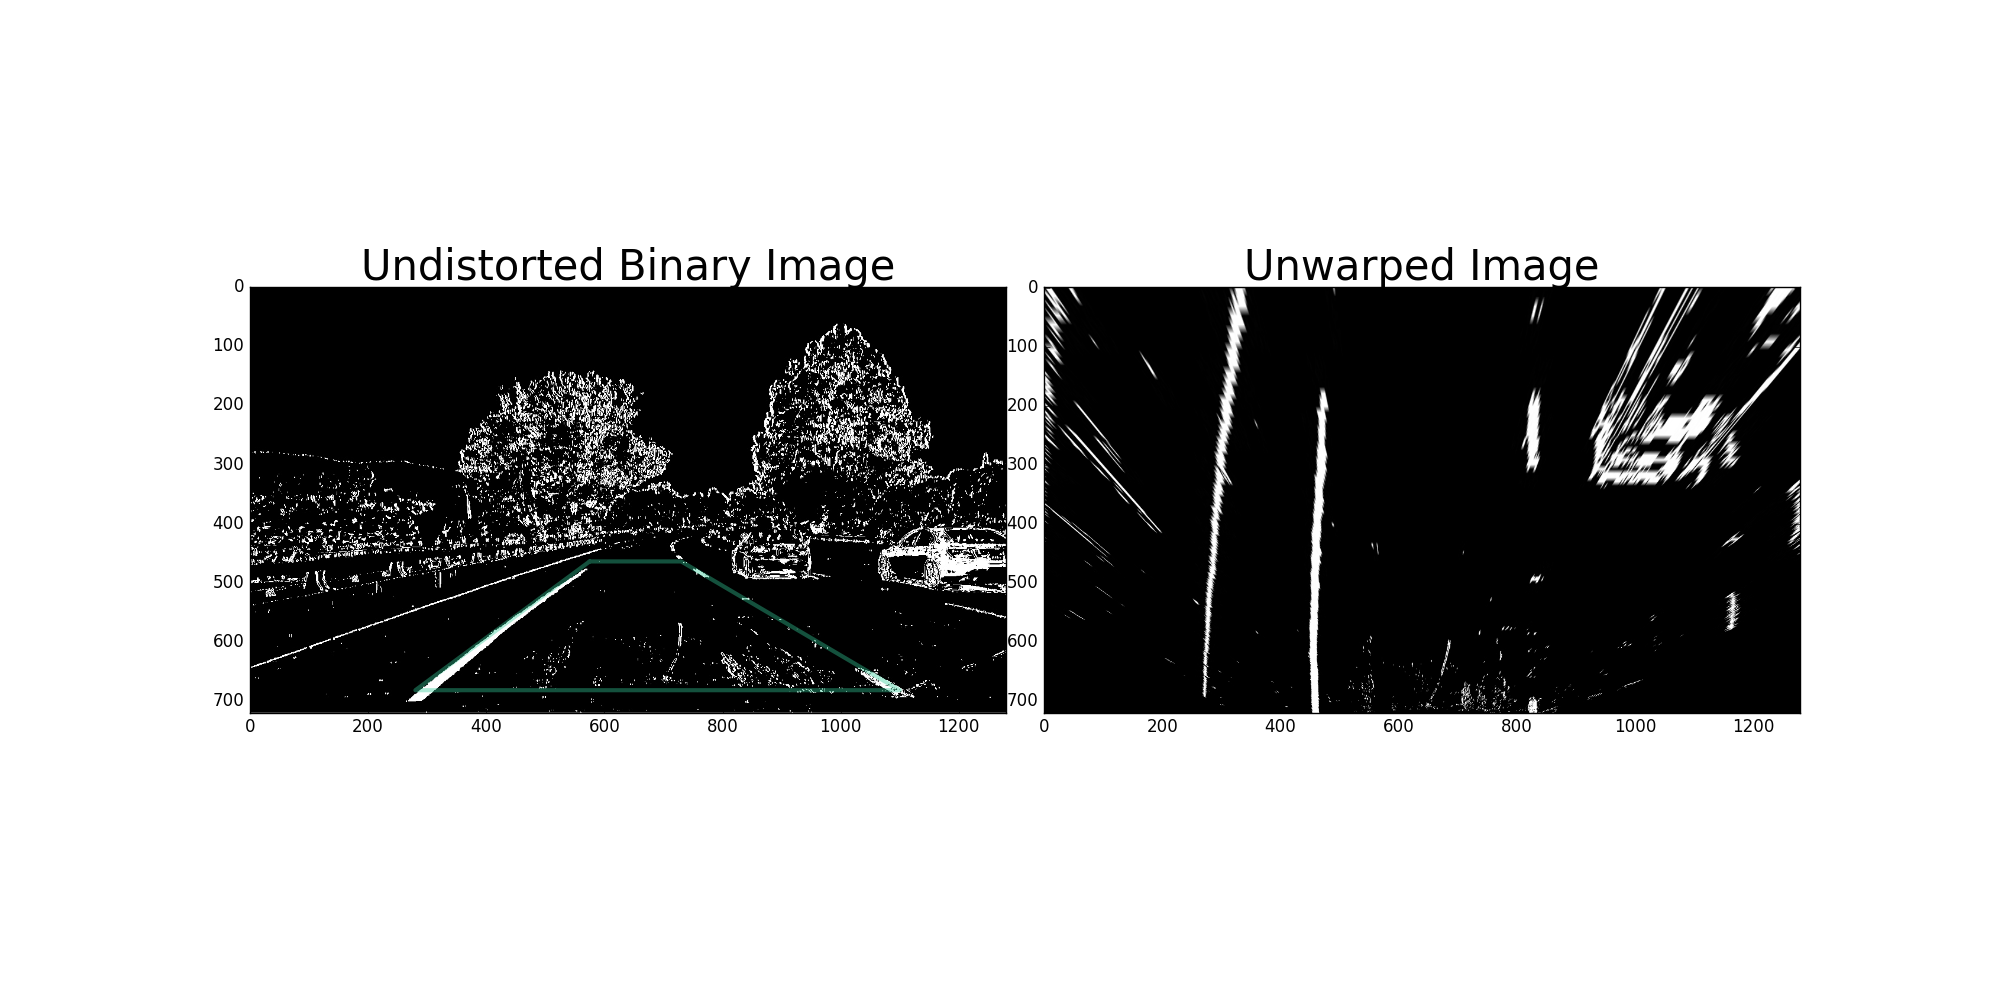
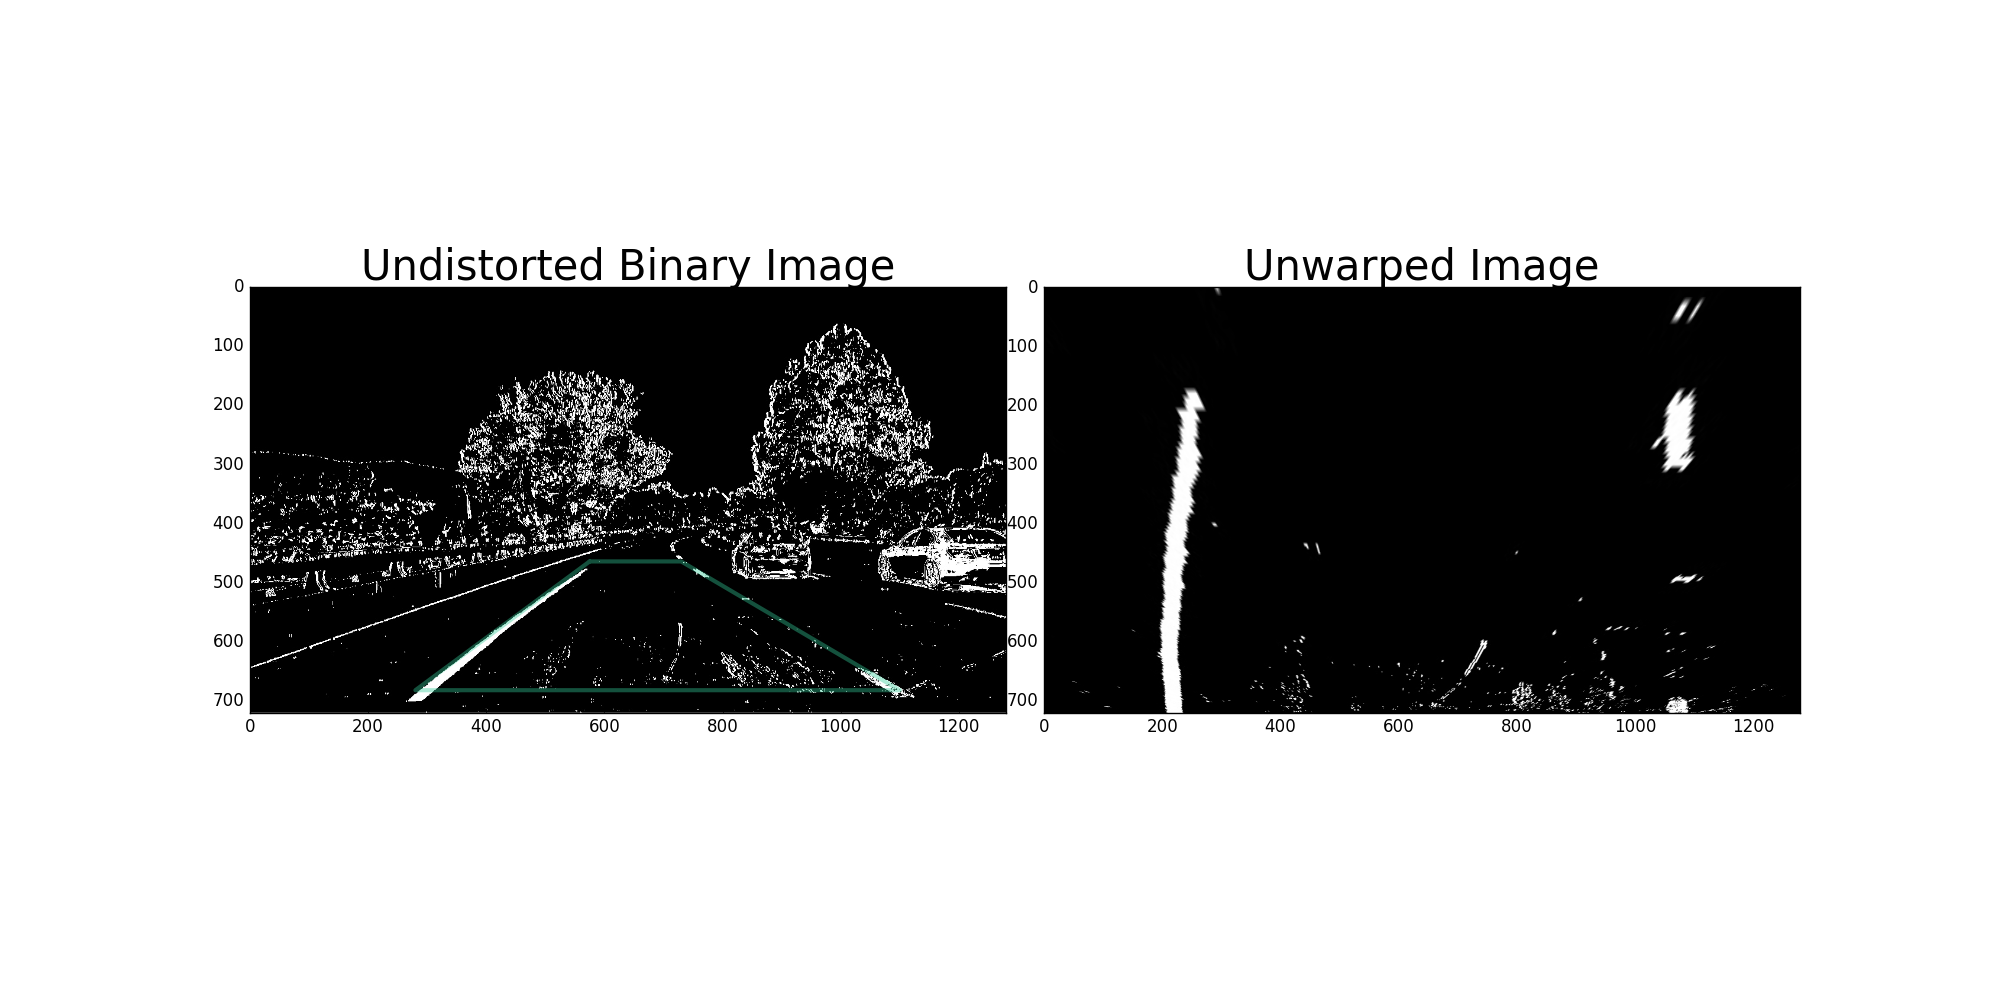
commit

diff --git a/detect_lane.py b/detect_lane.py
@@ -1,0 +1,104 @@
+import numpy as np
+import cv2
+import matplotlib.pyplot as plt
+
+
+binary_warped = cv2.imread('./output_images/unwarped_binary_test1.jpg')
+binary_warped = cv2.cvtColor(binary_warped, cv2.COLOR_BGR2GRAY)
+
+# take a histogram along all the columns in the lower half of the image
+histogram = np.sum(binary_warped[binary_warped.shape[0]//2:,:], axis=0)
+plt.plot(histogram)
+plt.show()
+
+# Create an output image to draw on and  visualize the result, thus stacked into rgb channels
+out_img = np.dstack((binary_warped, binary_warped, binary_warped))
+# Find the peak of the left and right halves of the histogram
+# These will be the starting point for the left and right lines
+
+midpoint = histogram.shape[0]//2
+leftx_base = np.argmax(histogram[:midpoint])
+rightx_base = np.argmax(histogram[midpoint:]) + midpoint
+
+# Choose the number of sliding windows
+nwindows = 9
+# Set height of windows
+window_height = binary_warped.shape[0]//nwindows
+
+# Identify the x and y positions of all nonzero pixels in the image
+nonzero = binary_warped.nonzero()
+nonzeroy = np.array(nonzero[0])
+nonzerox = np.array(nonzero[1])
+
+# Current positions to be updated for each window
+leftx_current = leftx_base
+rightx_current = rightx_base
+
+# Set the width of the windows +/- margin
+margin = 100
+# Set minimum number of pixels found to recenter window
+minpix = 50
+# Create empty lists to receive left and right lane pixel indices
+left_lane_inds = []
+right_lane_inds = []
+
+# Step through the windows one by one
+for window in range(nwindows):
+	# Identify window boundaries in x and y (and right and left)
+	win_y_low = binary_warped.shape[0] - (window+1)*window_height
+	win_y_high = binary_warped.shape[0] - window*window_height
+	win_xleft_low = leftx_current - margin
+	win_xleft_high = leftx_current + margin
+	win_xright_low = rightx_current - margin
+	win_xright_high = rightx_current + margin
+
+	# Draw the windows on the visualization image
+	cv2.rectangle(out_img,(win_xleft_low,win_y_low),(win_xleft_high,win_y_high),(0,255,0), 2)
+	cv2.rectangle(out_img,(win_xright_low,win_y_low),(win_xright_high,win_y_high),(0,255,0), 2)
+
+	# Identify the nonzero pixels in x and y within the window
+	good_left_inds = ((nonzeroy >= win_y_low) & (nonzeroy < win_y_high) & (nonzerox >= win_xleft_low) & (nonzerox < win_xleft_high)).nonzero()[0]
+	good_right_inds = ((nonzeroy >= win_y_low) & (nonzeroy < win_y_high) & (nonzerox >= win_xright_low) & (nonzerox < win_xright_high)).nonzero()[0]
+
+	# Append these indices to the lists
+	left_lane_inds.append(good_left_inds)
+	right_lane_inds.append(good_right_inds)
+
+	# If you found > minpix pixels, recenter next window on their mean position
+	if len(good_left_inds) > minpix:
+		leftx_current = np.int(np.mean(nonzerox[good_left_inds]))
+
+	if len(good_right_inds) > minpix: 
+		rightx_current = np.int(np.mean(nonzerox[good_right_inds]))
+
+# Concatenate the arrays of indices
+left_lane_inds = np.concatenate(left_lane_inds)
+right_lane_inds = np.concatenate(right_lane_inds)
+
+# Extract left and right line pixel positions
+leftx = nonzerox[left_lane_inds]
+lefty = nonzeroy[left_lane_inds] 
+rightx = nonzerox[right_lane_inds]
+righty = nonzeroy[right_lane_inds] 
+
+# Fit a second order polynomial to each
+left_fit = np.polyfit(lefty, leftx, 2)
+right_fit = np.polyfit(righty, rightx, 2)
+
+# For Visualization
+# Generate x and y values for plotting
+ploty = np.linspace(0, binary_warped.shape[0]-1, binary_warped.shape[0] )
+left_fitx = left_fit[0]*ploty**2 + left_fit[1]*ploty + left_fit[2]
+right_fitx = right_fit[0]*ploty**2 + right_fit[1]*ploty + right_fit[2]
+
+out_img[nonzeroy[left_lane_inds], nonzerox[left_lane_inds]] = [255, 0, 0]
+out_img[nonzeroy[right_lane_inds], nonzerox[right_lane_inds]] = [0, 0, 255]
+plt.imshow(out_img)
+plt.plot(left_fitx, ploty, color='yellow')
+plt.plot(right_fitx, ploty, color='yellow')
+plt.xlim(0, 1280)
+plt.ylim(720, 0)
+plt.show()
+
+# save result using cv2
+cv2.imwrite("output_images/detect_lanes_test1.jpg", out_img)

diff --git a/perspective_transform2.py b/perspective_transform2.py
@@ -18,18 +18,23 @@ def unwarp(img, src, dst):
 # load undistorted binary image
 exampleImg_undistort  = cv2.imread('./output_images/combined_binary_test1.jpg')
 
-h,w = exampleImg_undistort.shape[:2]
+#h,w = exampleImg_undistort.shape[:2]
+
+img_size = exampleImg_undistort.shape[:2]
+w = img_size[0]
+h = img_size[1]
 
 # define source and destination points for transform
-src = np.float32([(575,464),
-                  (730,464), 
-                  (280,682), 
-                  (1100,682)])
-
-dst = np.float32([(200,0),
-                  (w-200,0),
-                  (200,h),
-                  (w-200,h)])
+src = np.float32(
+    [[(img_size[0] / 2) - 55, img_size[1] / 2 + 100],
+    [((img_size[0] / 6) - 10), img_size[1]],
+    [(img_size[0] * 5 / 6) + 60, img_size[1]],
+    [(img_size[0] / 2 + 55), img_size[1] / 2 + 100]])
+dst = np.float32(
+    [[(img_size[0] / 4), 0],
+    [(img_size[0] / 4), img_size[1]],
+    [(img_size[0] * 3 / 4), img_size[1]],
+    [(img_size[0] * 3 / 4), 0]])
 
 exampleImg_unwarp, M, Minv = unwarp(exampleImg_undistort, src, dst)
 
@@ -48,7 +53,3 @@ ax2.imshow(exampleImg_unwarp)
 ax2.set_title('Unwarped Image', fontsize=30)
 plt.show()
 print('...')
-
-# save as file
-# binary = 255 * combined_binary.astype("uint8")
-cv2.imwrite("output_images/unwarped_binary_test1.jpg", exampleImg_unwarp)
